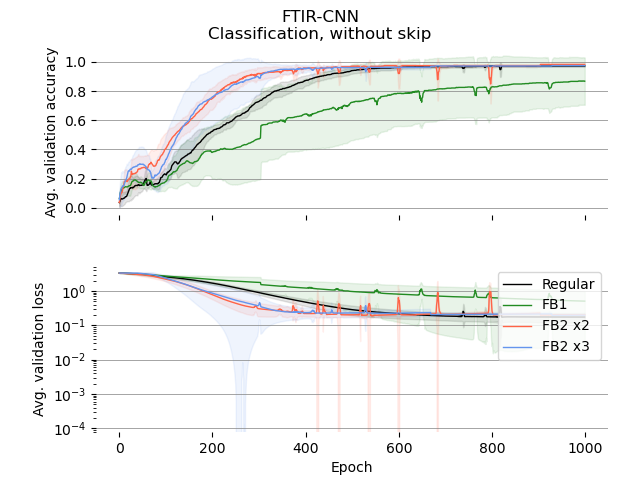
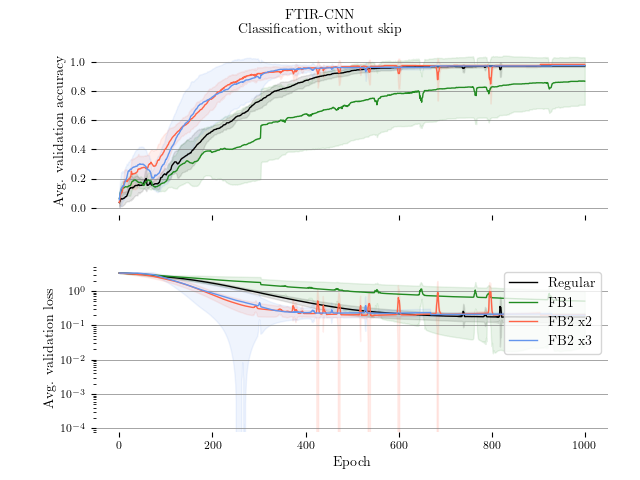
Consistent font.

diff --git a/documentation/comparison.py b/documentation/comparison.py
@@ -4,6 +4,7 @@ import os
 import json
 import numpy as np
 import matplotlib.pyplot as plt
+from matplotlib.font_manager import FontProperties
 
 _COLOUR = {
     "REGULAR": "black",
@@ -12,6 +13,10 @@ _COLOUR = {
     "FB2x3": "cornflowerblue",
     "FB2x4": "darkorange",
 }
+
+font = FontProperties(fname="./output/fonts/cmunrm.ttf")
+plt.rcParams['text.usetex'] = True
+plt.rcParams['font.family'] = 'serif'
 
 for problem in os.listdir("./output/compare/"):
     if not problem.endswith(".json"):
@@ -33,16 +38,20 @@ for problem in os.listdir("./output/compare/"):
             file.write("""
 \\begin{table}[h]
     \\centering
-    \\begin{tabular}{l|l|l|l}
+    \\begin{tabular}{|>{\\columncolor{gray!05}}l|l|l|l|}
+        \\hline
+        \\rowcolor{gray!20}
         \\textbf{\\footnotesize ARCHITECTURE} & \\textbf{\\footnotesize ORIGINAL} & \\textbf{\\footnotesize SKIP OFF} & \\textbf{\\footnotesize FEEDBACK OFF} \\\\
 """)
             if which == "CLASSIFICATION":
                 file.write("""
+        \\rowcolor{gray!20}
         & \\shortstack[l]{{\\footnotesize Accuracy} \\\\ \\rule{90pt}{0.5pt} \\\\ {\\footnotesize Loss}} & \\shortstack[l]{{\\footnotesize Accuracy} \\\\ \\rule{90pt}{0.5pt} \\\\ {\\footnotesize Loss}} & \\shortstack[l]{{\\footnotesize Accuracy} \\\\ \\rule{90pt}{0.5pt} \\\\ {\\footnotesize Loss}} \\\\
         \\hline
 """)
             else:
                 file.write("""
+        \\rowcolor{gray!20}
         & {\\footnotesize Loss} & {\\footnotesize Loss} & {\\footnotesize Loss} \\\\
         \\hline
 """)
@@ -169,17 +178,20 @@ for problem in os.listdir("./output/compare/"):
                 plt.close(fig)
                 os.remove(tex) if os.path.exists(tex) else None
                 continue
-            ax_loss.legend(loc='upper right')
-            ax_loss.set_xlabel('Epoch')
-            ax_loss.set_ylabel('Avg. validation loss')
-            ax_acc.set_ylabel('Avg. validation accuracy')
+            ax_loss.legend(loc='upper right', prop=font)
+            ax_loss.set_xlabel('Epoch', fontproperties=font)
+            ax_loss.set_ylabel('Avg. validation loss', fontproperties=font)
+            ax_acc.set_ylabel('Avg. validation accuracy', fontproperties=font)
 
             for ax in [ax_loss, ax_acc]:
+                for label in ax.get_xticklabels() + ax.get_yticklabels():
+                    label.set_fontproperties(font)
+                    label.set_fontsize(8)
                 for location in ['top', 'right', 'left', 'bottom']:
                     ax.spines[location].set_visible(False)
                     ax.yaxis.grid(True, color='gray', linewidth=0.5)
 
-            fig.suptitle(f"{problem.upper()}\n{which.capitalize()}, {'with skip' if skip == 'true' else 'without skip'}")
+            fig.suptitle(f"{problem.upper()}\n{which.capitalize()}, {'with skip' if skip == 'true' else 'without skip'}", fontproperties=font)
             plt.subplots_adjust(left=0.15, right=0.95, top=0.9, bottom=0.1, hspace=0.3)
             fig.savefig(f"{graph}{which.lower()}{'-skip' if skip == 'true' else ''}.png")
             plt.close(fig)
